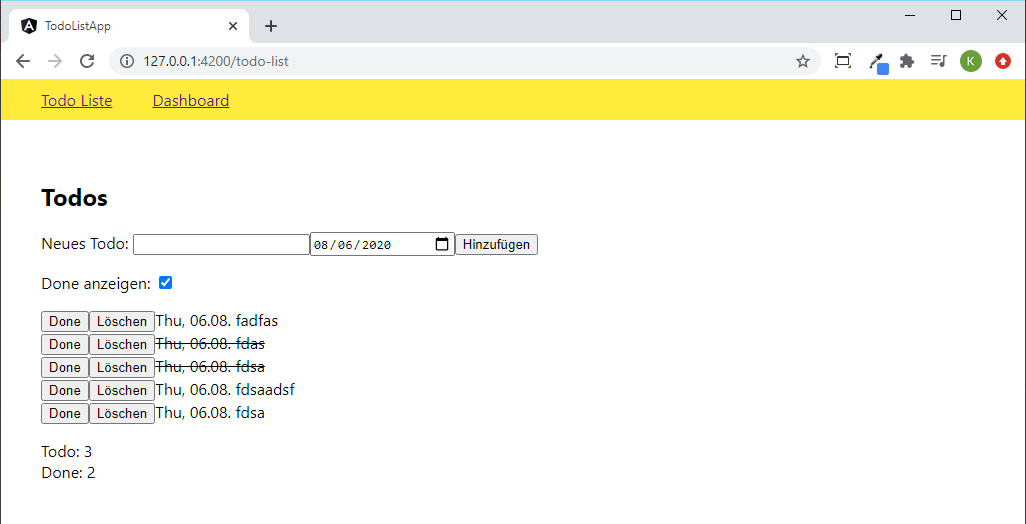
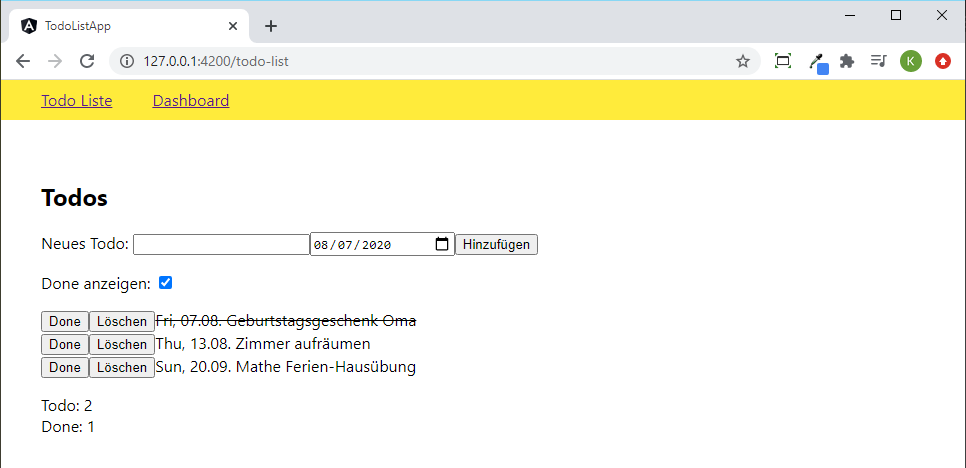
Update website

diff --git a/uebungsanleitungen/programmieren/web/angular-todo-list/index.html b/uebungsanleitungen/programmieren/web/angular-todo-list/index.html
@@ -154,6 +154,7 @@
 <li><a href="#todo-list-service">Todo List Service</a></li>
 <li><a href="#einfügen-von-items">Einfügen von Items</a></li>
 <li><a href="#done-items-anzeigen">Done Items anzeigen</a></li>
+<li><a href="#dashboard">Dashboard</a></li>
 </ul></li>
 </ul>
 </nav>
@@ -454,12 +455,11 @@ ng g component dashboard</code></pre></div>
     }
   }
 
-  <span style="color:#66d9ef">public</span> <span style="color:#a6e22e">updateTodoById</span>(<span style="color:#a6e22e">id</span>: <span style="color:#66d9ef">number</span>, <span style="color:#a6e22e">todo</span>: <span style="color:#66d9ef">Todo</span>)<span style="color:#f92672">:</span> <span style="color:#66d9ef">void</span> {
+  <span style="color:#66d9ef">public</span> <span style="color:#a6e22e">updateTodoById</span>(<span style="color:#a6e22e">id</span>: <span style="color:#66d9ef">number</span>, <span style="color:#a6e22e">description</span>: <span style="color:#66d9ef">string</span>, <span style="color:#a6e22e">dueDate</span>: <span style="color:#66d9ef">Date</span>)<span style="color:#f92672">:</span> <span style="color:#66d9ef">void</span> {
     <span style="color:#66d9ef">const</span> <span style="color:#a6e22e">index</span> <span style="color:#f92672">=</span> <span style="color:#66d9ef">this</span>.<span style="color:#a6e22e">todos</span>.<span style="color:#a6e22e">findIndex</span>(<span style="color:#a6e22e">t</span> <span style="color:#f92672">=&gt;</span> <span style="color:#a6e22e">t</span>.<span style="color:#a6e22e">id</span> <span style="color:#f92672">===</span> <span style="color:#a6e22e">id</span>);
     <span style="color:#66d9ef">if</span> (<span style="color:#a6e22e">index</span> <span style="color:#f92672">&gt;=</span> <span style="color:#ae81ff">0</span>) {
-      <span style="color:#66d9ef">this</span>.<span style="color:#a6e22e">todos</span>[<span style="color:#a6e22e">index</span>].<span style="color:#a6e22e">description</span> <span style="color:#f92672">=</span> <span style="color:#a6e22e">todo</span>.<span style="color:#a6e22e">description</span>;
-      <span style="color:#66d9ef">this</span>.<span style="color:#a6e22e">todos</span>[<span style="color:#a6e22e">index</span>].<span style="color:#a6e22e">dueDate</span> <span style="color:#f92672">=</span> <span style="color:#a6e22e">todo</span>.<span style="color:#a6e22e">dueDate</span>;
-      <span style="color:#66d9ef">this</span>.<span style="color:#a6e22e">todos</span>[<span style="color:#a6e22e">index</span>].<span style="color:#a6e22e">doneDate</span> <span style="color:#f92672">=</span> <span style="color:#a6e22e">todo</span>.<span style="color:#a6e22e">doneDate</span>;
+      <span style="color:#66d9ef">this</span>.<span style="color:#a6e22e">todos</span>[<span style="color:#a6e22e">index</span>].<span style="color:#a6e22e">description</span> <span style="color:#f92672">=</span> <span style="color:#a6e22e">description</span>;
+      <span style="color:#66d9ef">this</span>.<span style="color:#a6e22e">todos</span>[<span style="color:#a6e22e">index</span>].<span style="color:#a6e22e">dueDate</span> <span style="color:#f92672">=</span> <span style="color:#a6e22e">dueDate</span>;
     }
   }
 
@@ -505,7 +505,7 @@ ng g component dashboard</code></pre></div>
 })
 <span style="color:#66d9ef">export</span> <span style="color:#66d9ef">class</span> <span style="color:#a6e22e">AppModule</span> { }
 </code></pre></div>
-<p>In der <code>todo-list.component.ts</code> fügen wir jetzt ein Property <code>newTodo</code> ein. Dieses verwenden wir im HTML dann zum Data Binding. In der neuen Methode <code>addTodo</code> fügen wir das Item im Service dann ein.</p>
+<p>In der <code>todo-list.component.ts</code> fügen wir jetzt Properties für die <code>description</code> und das <code>dueDate</code> ein. Diese verwenden wir im HTML dann zum Data Binding. In der neuen Methode <code>addTodo</code> fügen wir das Item im Service dann ein.</p>
 <div class="highlight"><pre style="color:#f8f8f2;background-color:#272822;-moz-tab-size:4;-o-tab-size:4;tab-size:4"><code class="language-ts" data-lang="ts"><span style="color:#66d9ef">import</span> { <span style="color:#a6e22e">Component</span>, <span style="color:#a6e22e">OnInit</span> } <span style="color:#a6e22e">from</span> <span style="color:#e6db74">&#39;@angular/core&#39;</span>;
 
 <span style="color:#66d9ef">import</span> { <span style="color:#a6e22e">TodoListService</span> } <span style="color:#a6e22e">from</span> <span style="color:#e6db74">&#39;../shared/todo-list.service&#39;</span>;
@@ -517,7 +517,9 @@ ng g component dashboard</code></pre></div>
   <span style="color:#a6e22e">styleUrls</span><span style="color:#f92672">:</span> [<span style="color:#e6db74">&#39;./todo-list.component.scss&#39;</span>]
 })
 <span style="color:#66d9ef">export</span> <span style="color:#66d9ef">class</span> <span style="color:#a6e22e">TodoListComponent</span> <span style="color:#66d9ef">implements</span> <span style="color:#a6e22e">OnInit</span> {
-  <span style="color:#66d9ef">public</span> <span style="color:#a6e22e">newTodo</span><span style="color:#f92672">:</span> { <span style="color:#a6e22e">description</span>: <span style="color:#66d9ef">string</span>, <span style="color:#a6e22e">dueDate</span>: <span style="color:#66d9ef">string</span> } <span style="color:#f92672">=</span> { <span style="color:#a6e22e">description</span><span style="color:#f92672">:</span> <span style="color:#e6db74">&#39;&#39;</span>, <span style="color:#a6e22e">dueDate</span>: <span style="color:#66d9ef">formatDate</span>(<span style="color:#66d9ef">new</span> Date(), <span style="color:#e6db74">&#39;yyyy-MM-dd&#39;</span>, <span style="color:#e6db74">&#39;en&#39;</span>) };
+  <span style="color:#66d9ef">public</span> <span style="color:#a6e22e">todoDescription</span> <span style="color:#f92672">=</span> <span style="color:#e6db74">&#39;&#39;</span>;
+  <span style="color:#66d9ef">public</span> <span style="color:#a6e22e">todoDueDate</span> <span style="color:#f92672">=</span> <span style="color:#a6e22e">formatDate</span>(<span style="color:#66d9ef">new</span> Date(), <span style="color:#e6db74">&#39;yyyy-MM-dd&#39;</span>, <span style="color:#e6db74">&#39;en&#39;</span>);
+  <span style="color:#66d9ef">public</span> <span style="color:#a6e22e">showDone</span> <span style="color:#f92672">=</span> <span style="color:#66d9ef">false</span>;
 
   <span style="color:#66d9ef">constructor</span>(<span style="color:#66d9ef">public</span> <span style="color:#a6e22e">todoListService</span>: <span style="color:#66d9ef">TodoListService</span>) { }
 
@@ -525,9 +527,10 @@ ng g component dashboard</code></pre></div>
   }
 
   <span style="color:#66d9ef">public</span> <span style="color:#a6e22e">addTodo</span>()<span style="color:#f92672">:</span> <span style="color:#66d9ef">void</span> {
-    <span style="color:#66d9ef">if</span> (<span style="color:#66d9ef">this</span>.<span style="color:#a6e22e">newTodo</span>.<span style="color:#a6e22e">description</span>) {
-      <span style="color:#66d9ef">this</span>.<span style="color:#a6e22e">todoListService</span>.<span style="color:#a6e22e">addTodo</span>(<span style="color:#66d9ef">this</span>.<span style="color:#a6e22e">newTodo</span>.<span style="color:#a6e22e">description</span>, <span style="color:#66d9ef">new</span> Date(<span style="color:#66d9ef">this</span>.<span style="color:#a6e22e">newTodo</span>.<span style="color:#a6e22e">dueDate</span>));
-      <span style="color:#66d9ef">this</span>.<span style="color:#a6e22e">newTodo</span> <span style="color:#f92672">=</span> { <span style="color:#a6e22e">description</span><span style="color:#f92672">:</span> <span style="color:#e6db74">&#39;&#39;</span>, <span style="color:#a6e22e">dueDate</span>: <span style="color:#66d9ef">formatDate</span>(<span style="color:#66d9ef">new</span> Date(), <span style="color:#e6db74">&#39;yyyy-MM-dd&#39;</span>, <span style="color:#e6db74">&#39;en&#39;</span>) };
+    <span style="color:#66d9ef">if</span> (<span style="color:#66d9ef">this</span>.<span style="color:#a6e22e">todoDescription</span> <span style="color:#f92672">&amp;&amp;</span> <span style="color:#66d9ef">this</span>.<span style="color:#a6e22e">todoDueDate</span>) {
+      <span style="color:#66d9ef">this</span>.<span style="color:#a6e22e">todoListService</span>.<span style="color:#a6e22e">addTodo</span>(<span style="color:#66d9ef">this</span>.<span style="color:#a6e22e">todoDescription</span>, <span style="color:#66d9ef">new</span> Date(<span style="color:#66d9ef">this</span>.<span style="color:#a6e22e">todoDueDate</span>));
+      <span style="color:#66d9ef">this</span>.<span style="color:#a6e22e">todoDescription</span> <span style="color:#f92672">=</span> <span style="color:#e6db74">&#39;&#39;</span>;
+      <span style="color:#66d9ef">this</span>.<span style="color:#a6e22e">todoDueDate</span> <span style="color:#f92672">=</span> <span style="color:#a6e22e">formatDate</span>(<span style="color:#66d9ef">new</span> Date(), <span style="color:#e6db74">&#39;yyyy-MM-dd&#39;</span>, <span style="color:#e6db74">&#39;en&#39;</span>);
     }
   }
 }
@@ -536,7 +539,7 @@ ng g component dashboard</code></pre></div>
 <div class="highlight"><pre style="color:#f8f8f2;background-color:#272822;-moz-tab-size:4;-o-tab-size:4;tab-size:4"><code class="language-html" data-lang="html">&lt;<span style="color:#f92672">h2</span>&gt;Todos&lt;/<span style="color:#f92672">h2</span>&gt;
 
 &lt;<span style="color:#f92672">div</span> <span style="color:#a6e22e">class</span><span style="color:#f92672">=</span><span style="color:#e6db74">&#34;addItem&#34;</span>&gt;
-    Neues Todo: &lt;<span style="color:#f92672">input</span> <span style="color:#a6e22e">type</span><span style="color:#f92672">=</span><span style="color:#e6db74">&#34;text&#34;</span> <span style="color:#960050;background-color:#1e0010">[(</span><span style="color:#a6e22e">ngModel</span><span style="color:#960050;background-color:#1e0010">)]=&#34;</span><span style="color:#a6e22e">newTodo</span><span style="color:#960050;background-color:#1e0010">.</span><span style="color:#a6e22e">description</span><span style="color:#960050;background-color:#1e0010">&#34;</span>&gt; &lt;<span style="color:#f92672">input</span> <span style="color:#a6e22e">type</span><span style="color:#f92672">=</span><span style="color:#e6db74">&#34;date&#34;</span> <span style="color:#960050;background-color:#1e0010">[(</span><span style="color:#a6e22e">ngModel</span><span style="color:#960050;background-color:#1e0010">)]=&#34;</span><span style="color:#a6e22e">newTodo</span><span style="color:#960050;background-color:#1e0010">.</span><span style="color:#a6e22e">dueDate</span><span style="color:#960050;background-color:#1e0010">&#34;</span>&gt; &lt;<span style="color:#f92672">button</span> <span style="color:#960050;background-color:#1e0010">(</span><span style="color:#a6e22e">click</span><span style="color:#960050;background-color:#1e0010">)=&#34;</span><span style="color:#a6e22e">addTodo</span><span style="color:#960050;background-color:#1e0010">()&#34;</span>&gt;Hinzufügen&lt;/<span style="color:#f92672">button</span>&gt;
+    Neues Todo: &lt;<span style="color:#f92672">input</span> <span style="color:#a6e22e">type</span><span style="color:#f92672">=</span><span style="color:#e6db74">&#34;text&#34;</span> <span style="color:#960050;background-color:#1e0010">[(</span><span style="color:#a6e22e">ngModel</span><span style="color:#960050;background-color:#1e0010">)]=&#34;</span><span style="color:#a6e22e">todoDescription</span><span style="color:#960050;background-color:#1e0010">&#34;</span>&gt; &lt;<span style="color:#f92672">input</span> <span style="color:#a6e22e">type</span><span style="color:#f92672">=</span><span style="color:#e6db74">&#34;date&#34;</span> <span style="color:#960050;background-color:#1e0010">[(</span><span style="color:#a6e22e">ngModel</span><span style="color:#960050;background-color:#1e0010">)]=&#34;</span><span style="color:#a6e22e">todoDueDate</span><span style="color:#960050;background-color:#1e0010">&#34;</span>&gt; &lt;<span style="color:#f92672">button</span> <span style="color:#960050;background-color:#1e0010">(</span><span style="color:#a6e22e">click</span><span style="color:#960050;background-color:#1e0010">)=&#34;</span><span style="color:#a6e22e">addTodo</span><span style="color:#960050;background-color:#1e0010">()&#34;</span>&gt;Hinzufügen&lt;/<span style="color:#f92672">button</span>&gt;
 &lt;/<span style="color:#f92672">div</span>&gt;
 
 &lt;<span style="color:#f92672">div</span> <span style="color:#960050;background-color:#1e0010">*</span><span style="color:#a6e22e">ngFor</span><span style="color:#f92672">=</span><span style="color:#e6db74">&#34;let item of todoListService.getTodos(false)&#34;</span>&gt;
@@ -553,7 +556,7 @@ ng g component dashboard</code></pre></div>
 <div class="highlight"><pre style="color:#f8f8f2;background-color:#272822;-moz-tab-size:4;-o-tab-size:4;tab-size:4"><code class="language-html" data-lang="html">&lt;<span style="color:#f92672">h2</span>&gt;Todos&lt;/<span style="color:#f92672">h2</span>&gt;
 
 &lt;<span style="color:#f92672">div</span> <span style="color:#a6e22e">class</span><span style="color:#f92672">=</span><span style="color:#e6db74">&#34;addItem&#34;</span>&gt;
-    Neues Todo: &lt;<span style="color:#f92672">input</span> <span style="color:#a6e22e">type</span><span style="color:#f92672">=</span><span style="color:#e6db74">&#34;text&#34;</span> <span style="color:#960050;background-color:#1e0010">[(</span><span style="color:#a6e22e">ngModel</span><span style="color:#960050;background-color:#1e0010">)]=&#34;</span><span style="color:#a6e22e">newTodo</span><span style="color:#960050;background-color:#1e0010">.</span><span style="color:#a6e22e">description</span><span style="color:#960050;background-color:#1e0010">&#34;</span>&gt; &lt;<span style="color:#f92672">input</span> <span style="color:#a6e22e">type</span><span style="color:#f92672">=</span><span style="color:#e6db74">&#34;date&#34;</span> <span style="color:#960050;background-color:#1e0010">[(</span><span style="color:#a6e22e">ngModel</span><span style="color:#960050;background-color:#1e0010">)]=&#34;</span><span style="color:#a6e22e">newTodo</span><span style="color:#960050;background-color:#1e0010">.</span><span style="color:#a6e22e">dueDate</span><span style="color:#960050;background-color:#1e0010">&#34;</span>&gt; &lt;<span style="color:#f92672">button</span> <span style="color:#960050;background-color:#1e0010">(</span><span style="color:#a6e22e">click</span><span style="color:#960050;background-color:#1e0010">)=&#34;</span><span style="color:#a6e22e">addTodo</span><span style="color:#960050;background-color:#1e0010">()&#34;</span>&gt;Hinzufügen&lt;/<span style="color:#f92672">button</span>&gt;
+    Neues Todo: &lt;<span style="color:#f92672">input</span> <span style="color:#a6e22e">type</span><span style="color:#f92672">=</span><span style="color:#e6db74">&#34;text&#34;</span> <span style="color:#960050;background-color:#1e0010">[(</span><span style="color:#a6e22e">ngModel</span><span style="color:#960050;background-color:#1e0010">)]=&#34;</span><span style="color:#a6e22e">todoDescription</span><span style="color:#960050;background-color:#1e0010">&#34;</span>&gt; &lt;<span style="color:#f92672">input</span> <span style="color:#a6e22e">type</span><span style="color:#f92672">=</span><span style="color:#e6db74">&#34;date&#34;</span> <span style="color:#960050;background-color:#1e0010">[(</span><span style="color:#a6e22e">ngModel</span><span style="color:#960050;background-color:#1e0010">)]=&#34;</span><span style="color:#a6e22e">todoDueDate</span><span style="color:#960050;background-color:#1e0010">&#34;</span>&gt; &lt;<span style="color:#f92672">button</span> <span style="color:#960050;background-color:#1e0010">(</span><span style="color:#a6e22e">click</span><span style="color:#960050;background-color:#1e0010">)=&#34;</span><span style="color:#a6e22e">addTodo</span><span style="color:#960050;background-color:#1e0010">()&#34;</span>&gt;Hinzufügen&lt;/<span style="color:#f92672">button</span>&gt;
 &lt;/<span style="color:#f92672">div</span>&gt;
 
 &lt;<span style="color:#f92672">p</span>&gt;Done anzeigen: &lt;<span style="color:#f92672">input</span> <span style="color:#a6e22e">type</span><span style="color:#f92672">=</span><span style="color:#e6db74">&#34;checkbox&#34;</span> <span style="color:#960050;background-color:#1e0010">[(</span><span style="color:#a6e22e">ngModel</span><span style="color:#960050;background-color:#1e0010">)]=&#34;</span><span style="color:#a6e22e">showDone</span><span style="color:#960050;background-color:#1e0010">&#34;</span>&gt;&lt;/<span style="color:#f92672">p</span>&gt;
@@ -586,6 +589,95 @@ ng g component dashboard</code></pre></div>
     </div>
     <div class="col-12 col-md-12">
     <img src="/uebungsanleitungen/programmieren/web/angular-todo-list/img/todo-list-with-done.png" alt="(.Get 1)" class="mx-auto " style="display: block; width: auto" />
+    </div>
+</div>
+
+
+<h2 id="dashboard">Dashboard</h2>
+
+<p>Im Dashboard wollen wir jetzt zwei Balken anzeigen für die noch offenen und die bereits erledigten Todos. In <code>dashboard.component.ts</code> fügen wir dazu zwei Methoden ein, die uns die jeweiligen Prozentsätze ausrechnen:</p>
+<div class="highlight"><pre style="color:#f8f8f2;background-color:#272822;-moz-tab-size:4;-o-tab-size:4;tab-size:4"><code class="language-ts" data-lang="ts"><span style="color:#66d9ef">import</span> { <span style="color:#a6e22e">Component</span>, <span style="color:#a6e22e">OnInit</span> } <span style="color:#a6e22e">from</span> <span style="color:#e6db74">&#39;@angular/core&#39;</span>;
+
+<span style="color:#66d9ef">import</span> { <span style="color:#a6e22e">TodoListService</span> } <span style="color:#a6e22e">from</span> <span style="color:#e6db74">&#39;../shared/todo-list.service&#39;</span>;
+
+<span style="color:#66d9ef">@Component</span>({
+  <span style="color:#a6e22e">selector</span><span style="color:#f92672">:</span> <span style="color:#e6db74">&#39;app-dashboard&#39;</span>,
+  <span style="color:#a6e22e">templateUrl</span><span style="color:#f92672">:</span> <span style="color:#e6db74">&#39;./dashboard.component.html&#39;</span>,
+  <span style="color:#a6e22e">styleUrls</span><span style="color:#f92672">:</span> [<span style="color:#e6db74">&#39;./dashboard.component.scss&#39;</span>]
+})
+<span style="color:#66d9ef">export</span> <span style="color:#66d9ef">class</span> <span style="color:#a6e22e">DashboardComponent</span> <span style="color:#66d9ef">implements</span> <span style="color:#a6e22e">OnInit</span> {
+
+  <span style="color:#66d9ef">constructor</span>(<span style="color:#66d9ef">public</span> <span style="color:#a6e22e">todoListService</span>: <span style="color:#66d9ef">TodoListService</span>) { }
+
+  <span style="color:#a6e22e">ngOnInit</span>()<span style="color:#f92672">:</span> <span style="color:#66d9ef">void</span> {
+  }
+
+  <span style="color:#a6e22e">getTodoPercentage</span>()<span style="color:#f92672">:</span> <span style="color:#66d9ef">number</span> {
+    <span style="color:#66d9ef">const</span> <span style="color:#a6e22e">allTodos</span> <span style="color:#f92672">=</span> <span style="color:#66d9ef">this</span>.<span style="color:#a6e22e">todoListService</span>.<span style="color:#a6e22e">getTodos</span>();
+
+    <span style="color:#66d9ef">if</span> (<span style="color:#a6e22e">allTodos</span>.<span style="color:#a6e22e">length</span>) {
+      <span style="color:#66d9ef">return</span> <span style="color:#66d9ef">this</span>.<span style="color:#a6e22e">todoListService</span>.<span style="color:#a6e22e">getTodos</span>(<span style="color:#66d9ef">false</span>).<span style="color:#a6e22e">length</span> <span style="color:#f92672">/</span> <span style="color:#a6e22e">allTodos</span>.<span style="color:#a6e22e">length</span> <span style="color:#f92672">*</span> <span style="color:#ae81ff">100</span>;
+    } <span style="color:#66d9ef">else</span> {
+      <span style="color:#66d9ef">return</span> <span style="color:#ae81ff">0</span>;
+    }
+  }
+
+  <span style="color:#a6e22e">getDonePercentage</span>()<span style="color:#f92672">:</span> <span style="color:#66d9ef">number</span> {
+    <span style="color:#66d9ef">const</span> <span style="color:#a6e22e">allTodos</span> <span style="color:#f92672">=</span> <span style="color:#66d9ef">this</span>.<span style="color:#a6e22e">todoListService</span>.<span style="color:#a6e22e">getTodos</span>();
+
+    <span style="color:#66d9ef">if</span> (<span style="color:#a6e22e">allTodos</span>.<span style="color:#a6e22e">length</span>) {
+      <span style="color:#66d9ef">return</span> <span style="color:#66d9ef">this</span>.<span style="color:#a6e22e">todoListService</span>.<span style="color:#a6e22e">getTodos</span>(<span style="color:#66d9ef">true</span>).<span style="color:#a6e22e">length</span> <span style="color:#f92672">/</span> <span style="color:#a6e22e">allTodos</span>.<span style="color:#a6e22e">length</span> <span style="color:#f92672">*</span> <span style="color:#ae81ff">100</span>;
+    } <span style="color:#66d9ef">else</span> {
+      <span style="color:#66d9ef">return</span> <span style="color:#ae81ff">0</span>;
+    }
+  }
+}
+</code></pre></div>
+<p>Dann fügen wir im HTML zwei divs ein, deren Breite über Data Binding im <code>[ngStyle]</code> gesteuert wird. Hier verwenden wir die berrechneten Prozentsätze:</p>
+<div class="highlight"><pre style="color:#f8f8f2;background-color:#272822;-moz-tab-size:4;-o-tab-size:4;tab-size:4"><code class="language-html" data-lang="html">&lt;<span style="color:#f92672">h2</span>&gt;Dashboard&lt;/<span style="color:#f92672">h2</span>&gt;
+&lt;<span style="color:#f92672">div</span> <span style="color:#a6e22e">class</span><span style="color:#f92672">=</span><span style="color:#e6db74">&#34;bar-chart&#34;</span>&gt;
+    &lt;<span style="color:#f92672">div</span> <span style="color:#960050;background-color:#1e0010">[</span><span style="color:#a6e22e">ngStyle</span><span style="color:#960050;background-color:#1e0010">]=&#34;{</span> <span style="color:#960050;background-color:#1e0010">&#39;</span><span style="color:#a6e22e">width</span><span style="color:#960050;background-color:#1e0010">&#39;</span><span style="color:#a6e22e">:</span> <span style="color:#a6e22e">getTodoPercentage</span><span style="color:#960050;background-color:#1e0010">().</span><span style="color:#a6e22e">toString</span><span style="color:#960050;background-color:#1e0010">()</span> <span style="color:#960050;background-color:#1e0010">+</span> <span style="color:#960050;background-color:#1e0010">&#39;%&#39;</span> <span style="color:#960050;background-color:#1e0010">}&#34;</span> <span style="color:#a6e22e">class</span><span style="color:#f92672">=</span><span style="color:#e6db74">&#34;todo-bar&#34;</span>&gt;Todo: {{ getTodoPercentage() | number:&#39;1.0-0&#39; }} %&lt;/<span style="color:#f92672">div</span>&gt;
+    &lt;<span style="color:#f92672">div</span> <span style="color:#960050;background-color:#1e0010">[</span><span style="color:#a6e22e">ngStyle</span><span style="color:#960050;background-color:#1e0010">]=&#34;{</span> <span style="color:#960050;background-color:#1e0010">&#39;</span><span style="color:#a6e22e">width</span><span style="color:#960050;background-color:#1e0010">&#39;</span><span style="color:#a6e22e">:</span> <span style="color:#a6e22e">getDonePercentage</span><span style="color:#960050;background-color:#1e0010">().</span><span style="color:#a6e22e">toString</span><span style="color:#960050;background-color:#1e0010">()</span> <span style="color:#960050;background-color:#1e0010">+</span> <span style="color:#960050;background-color:#1e0010">&#39;%&#39;</span> <span style="color:#960050;background-color:#1e0010">}&#34;</span> <span style="color:#a6e22e">class</span><span style="color:#f92672">=</span><span style="color:#e6db74">&#34;done-bar&#34;</span>&gt;Done: {{ getDonePercentage() | number:&#39;1.0-0&#39; }} %&lt;/<span style="color:#f92672">div</span>&gt;
+&lt;/<span style="color:#f92672">div</span>&gt;</code></pre></div>
+<p>Im Stylesheet müssen wir noch die Höhe und Farben der Balken festlegen:</p>
+<div class="highlight"><pre style="color:#f8f8f2;background-color:#272822;-moz-tab-size:4;-o-tab-size:4;tab-size:4"><code class="language-scss" data-lang="scss"><span style="color:#a6e22e">.bar-chart</span> {
+    <span style="color:#f92672">&gt;</span><span style="color:#f92672">div</span> {
+        <span style="color:#f92672">height</span><span style="color:#a6e22e">:</span> <span style="color:#f92672">40px</span>;
+        <span style="color:#f92672">margin-bottom</span><span style="color:#a6e22e">:</span> <span style="color:#f92672">10px</span>;
+        <span style="color:#f92672">white-space</span><span style="color:#a6e22e">:</span> <span style="color:#f92672">nowrap</span>;
+    }
+
+    <span style="color:#a6e22e">.todo-bar</span> {
+        <span style="color:#f92672">background-color</span><span style="color:#a6e22e">:</span> #03a9f4;
+        <span style="color:#f92672">height</span><span style="color:#a6e22e">:</span> <span style="color:#f92672">40px</span>;
+    }
+
+    <span style="color:#a6e22e">.done-bar</span> {
+        <span style="color:#f92672">background-color</span><span style="color:#a6e22e">:</span> #4caf50;
+        <span style="color:#f92672">height</span><span style="color:#a6e22e">:</span> <span style="color:#f92672">40px</span>;
+    }
+}</code></pre></div>
+
+
+
+     
+    
+
+
+
+
+
+
+
+
+
+
+<div class="row">
+    <div class="col">
+        <p></p>
+    </div>
+    <div class="col-12 col-md-12">
+    <img src="/uebungsanleitungen/programmieren/web/angular-todo-list/img/dashboard.png" alt="(.Get 1)" class="mx-auto " style="display: block; width: auto" />
     </div>
 </div>
 
